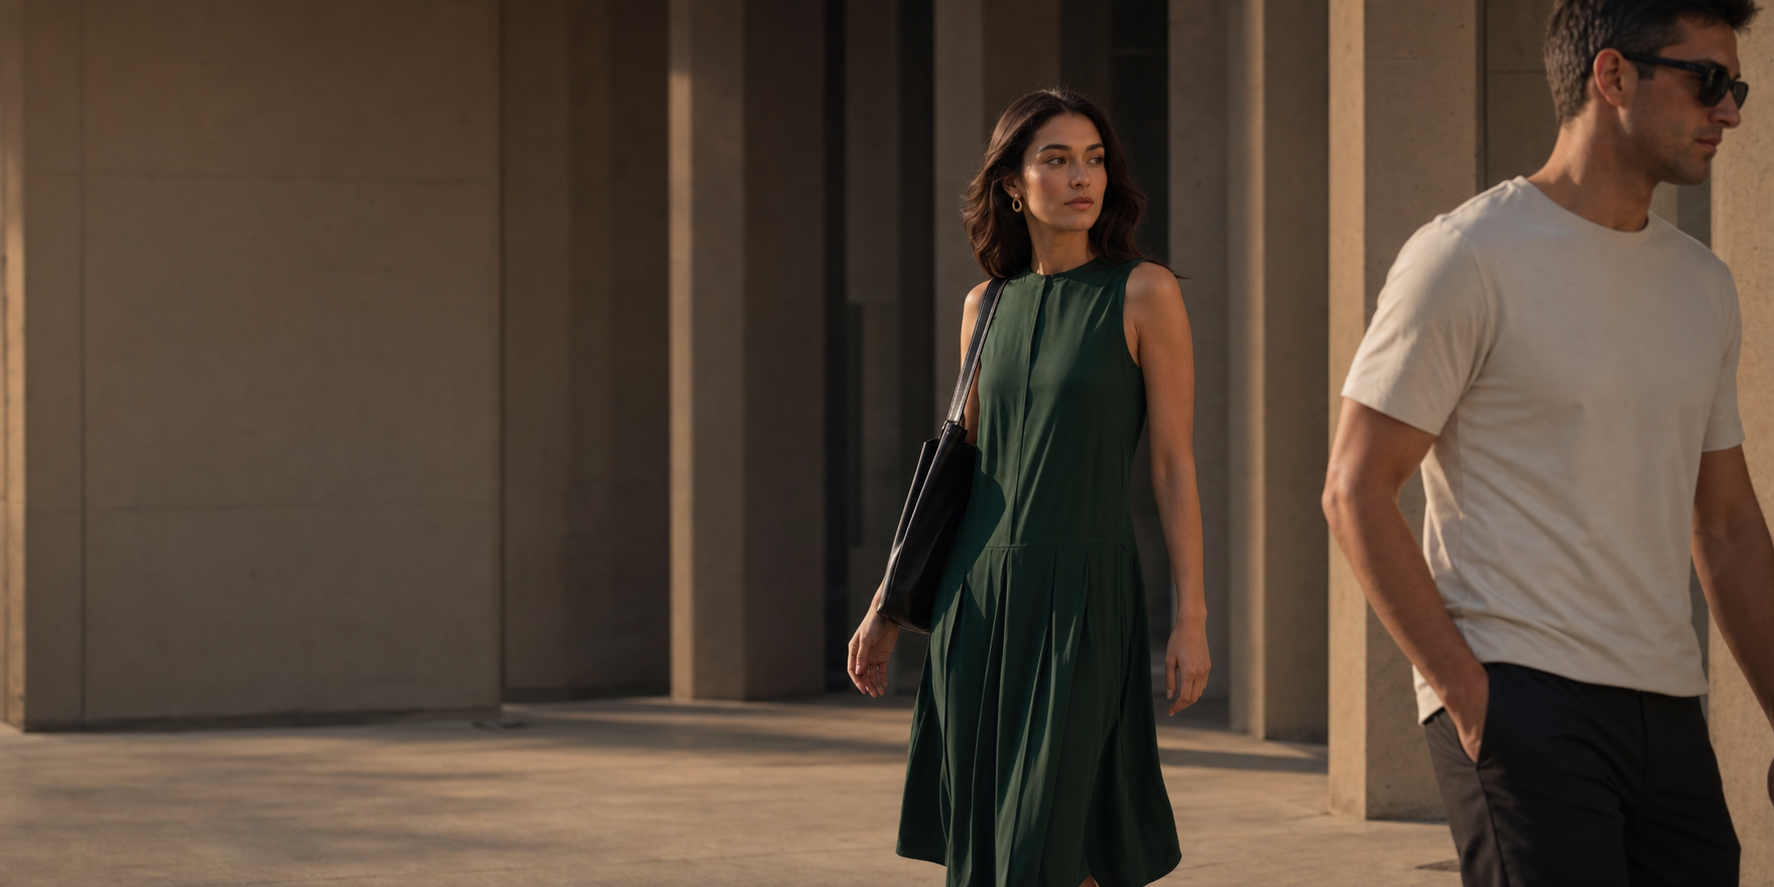
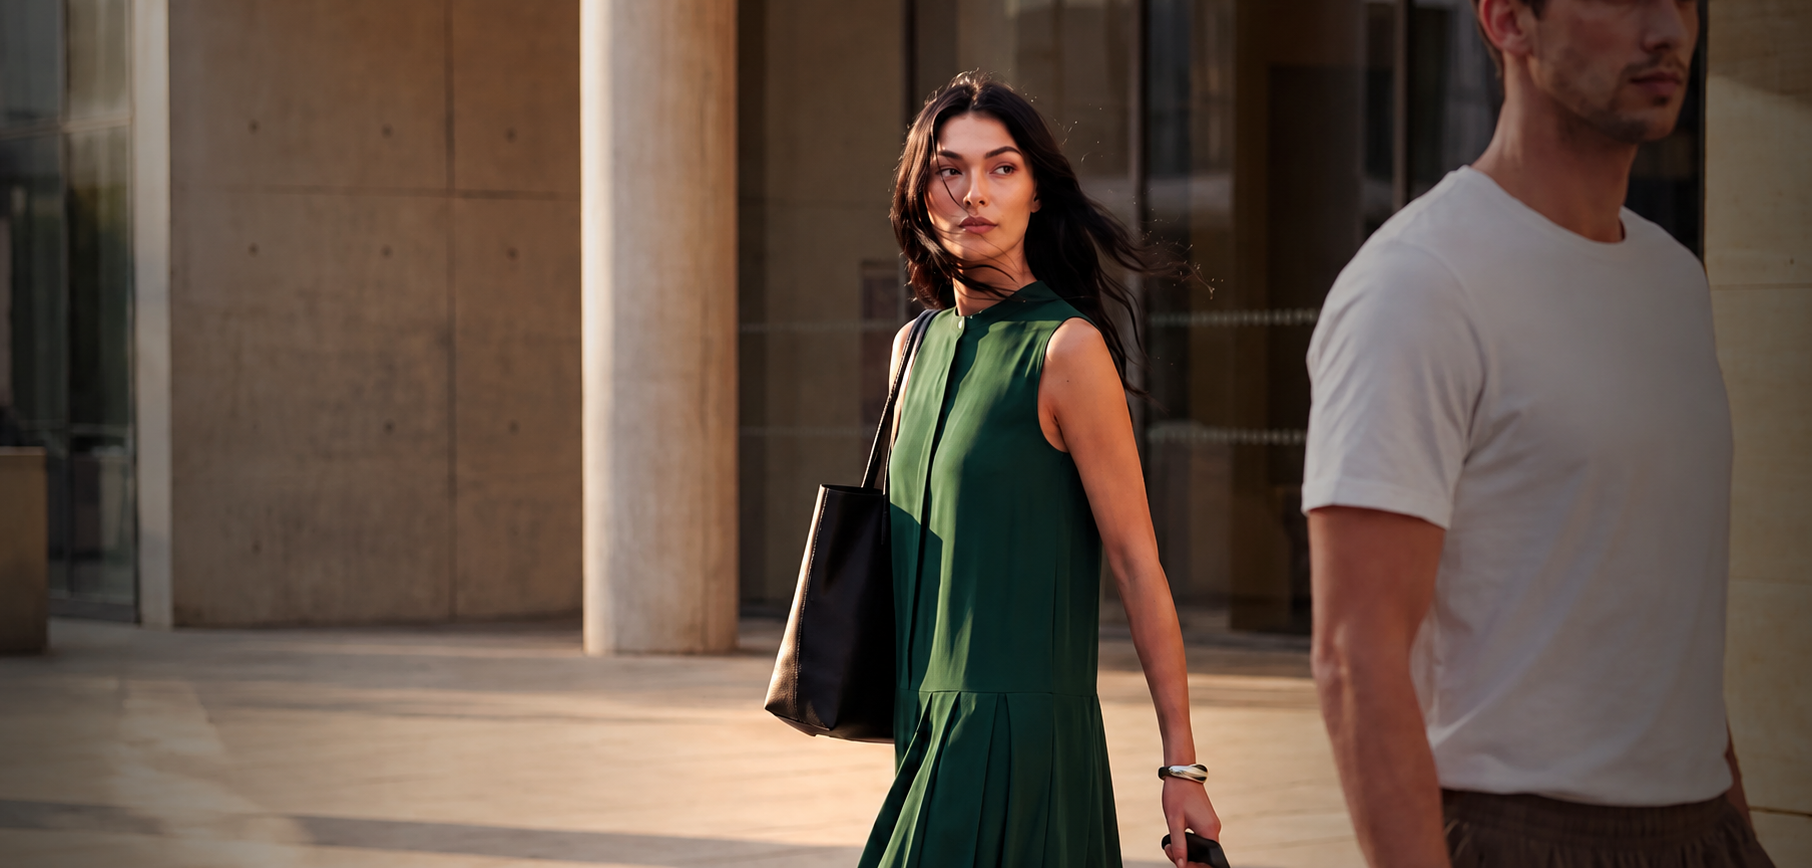
chore: atualiza hero-fashion.png e adiciona hero-fashion-cel.png (versão mobile)

diff --git a/PROJETO.md b/PROJETO.md
@@ -370,7 +370,8 @@ export interface Product {
 |---|---|
 | `logo-branca.png` | Header da loja (fundo escuro) e sidebar do admin |
 | `logo-preta.png` | Header da loja após scroll (fundo branco) |
-| `hero-fashion.png` | Banner da página de produtos |
+| `hero-fashion.png` | Banner hero desktop |
+| `hero-fashion-cel.png` | Banner hero mobile |
 | `section-*.png` | Fotos das seções editoriais na home |
 
 ---
@@ -390,4 +391,4 @@ export interface Product {
 
 ---
 
-*Última atualização: 18/06/2026*
+*Última atualização: 19/06/2026*